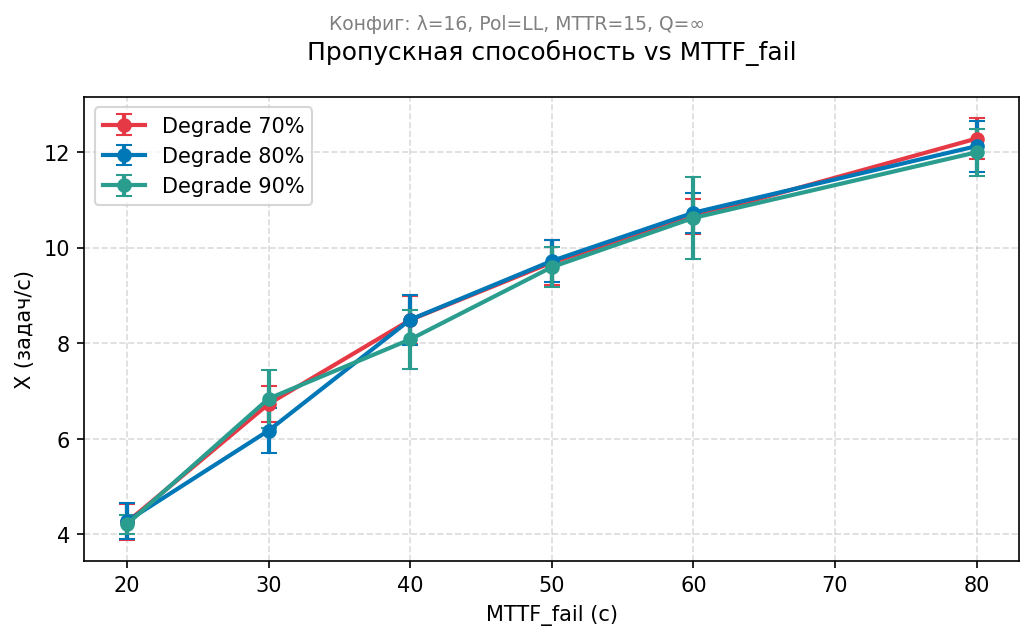
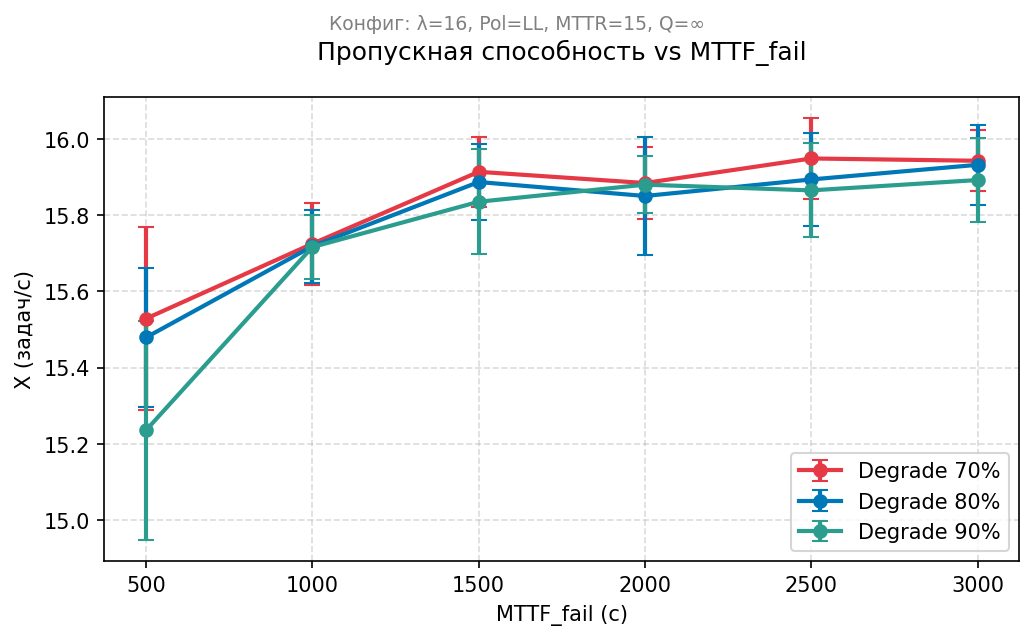
refactor simulator_v3.py

diff --git a/simulator_v3.py b/simulator_v3.py
@@ -93,13 +93,13 @@ class SimConfig:
     balance_policy:      BalancePolicy = "least_loaded"
 
     # Параметры отказов узла (каскад UP→DEGRADE→DOWN)
-    node_mttf_fail:      float = 40.0   # MTTF аппаратного отказа
+    node_mttf_fail:      float = 1000.0   # MTTF аппаратного отказа
     degrade_percent:     float = 0.8    # MTTF_degrade = mttf_fail * degrade_percent
     node_mttr:           float = 15.0   # среднее время восстановления узла
     node_degrade_factor: float = 2.0    # во сколько раз снижается μ при degrade
 
     # Параметры отказов контейнера
-    container_mttf:      float = 50.0
+    container_mttf:      float = 1000.0
     container_mttr:      float = 10.0
 
     # Параметры балансировщика (SPOF)
@@ -558,7 +558,7 @@ def execute_all_experiments() -> dict:
 
     # --- Серия 1: MTTF_fail ---
     print("[1/4] Влияние MTTF_fail (кривые старения 70% / 80% / 90%)...")
-    for mttf in [20, 30, 40, 50, 60, 80]:
+    for mttf in [500, 1000, 1500, 2000, 2500, 3000]:
         for pct in [0.7, 0.8, 0.9]:
             cfg = SimConfig(node_mttf_fail=float(mttf), degrade_percent=pct)
             res = run_replications(cfg)
@@ -571,7 +571,7 @@ def execute_all_experiments() -> dict:
     # --- Серия 2: MTTR ---
     print("[2/4] Влияние MTTR восстановления сервера...")
     for mttr in [5, 10, 15, 20, 25]:
-        cfg = SimConfig(node_mttr=float(mttr), node_mttf_fail=40.0, degrade_percent=0.8)
+        cfg = SimConfig(node_mttr=float(mttr), node_mttf_fail=1000.0, degrade_percent=0.8)
         res = run_replications(cfg)
         res["mttr"] = mttr
         plot_data["mttr"].append(res)
@@ -581,7 +581,7 @@ def execute_all_experiments() -> dict:
     # --- Серия 3: Политики балансировки ---
     print("[3/4] Сравнение политик балансировки...")
     for pol in ["round_robin", "least_loaded", "random"]:
-        cfg = SimConfig(balance_policy=pol, node_mttf_fail=40.0,
+        cfg = SimConfig(balance_policy=pol, node_mttf_fail=1000.0,
                         degrade_percent=0.8, node_mttr=15.0)
         res = run_replications(cfg)
         res["policy"] = pol
@@ -592,7 +592,7 @@ def execute_all_experiments() -> dict:
     # --- Серия 4: Интенсивность λ ---
     print("[4/4] Влияние интенсивности λ = [10 .. 30] задач/с...")
     for lam in [10.0, 14.0, 18.0, 22.0, 26.0, 30.0]:
-        cfg = SimConfig(arrival_rate=lam, node_mttf_fail=40.0,
+        cfg = SimConfig(arrival_rate=lam, node_mttf_fail=1000.0,
                         degrade_percent=0.8, balance_policy="least_loaded")
         res = run_replications(cfg)
         res["lambda"] = lam
@@ -682,9 +682,9 @@ def generate_plots(data: dict):
     print("\nГенерация 24 графиков...")
 
     cfg_fail = "λ=16, Pol=LL, MTTR=15, Q=∞"
-    cfg_mttr = "λ=16, Pol=LL, Fail=40, Deg=80%, Q=∞"
-    cfg_bal  = "λ=16, Fail=40, Deg=80%, MTTR=15, Q=∞"
-    cfg_lam  = "Pol=LL, Fail=40, Deg=80%, MTTR=15, Q=∞"
+    cfg_mttr = "λ=16, Pol=LL, Fail=1000, Deg=80%, Q=∞"
+    cfg_bal  = "λ=16, Fail=1000, Deg=80%, MTTR=15, Q=∞"
+    cfg_lam  = "Pol=LL, Fail=1000, Deg=80%, MTTR=15, Q=∞"
 
     df_f = pd.DataFrame(data["fail"])
     df_m = pd.DataFrame(data["mttr"])
